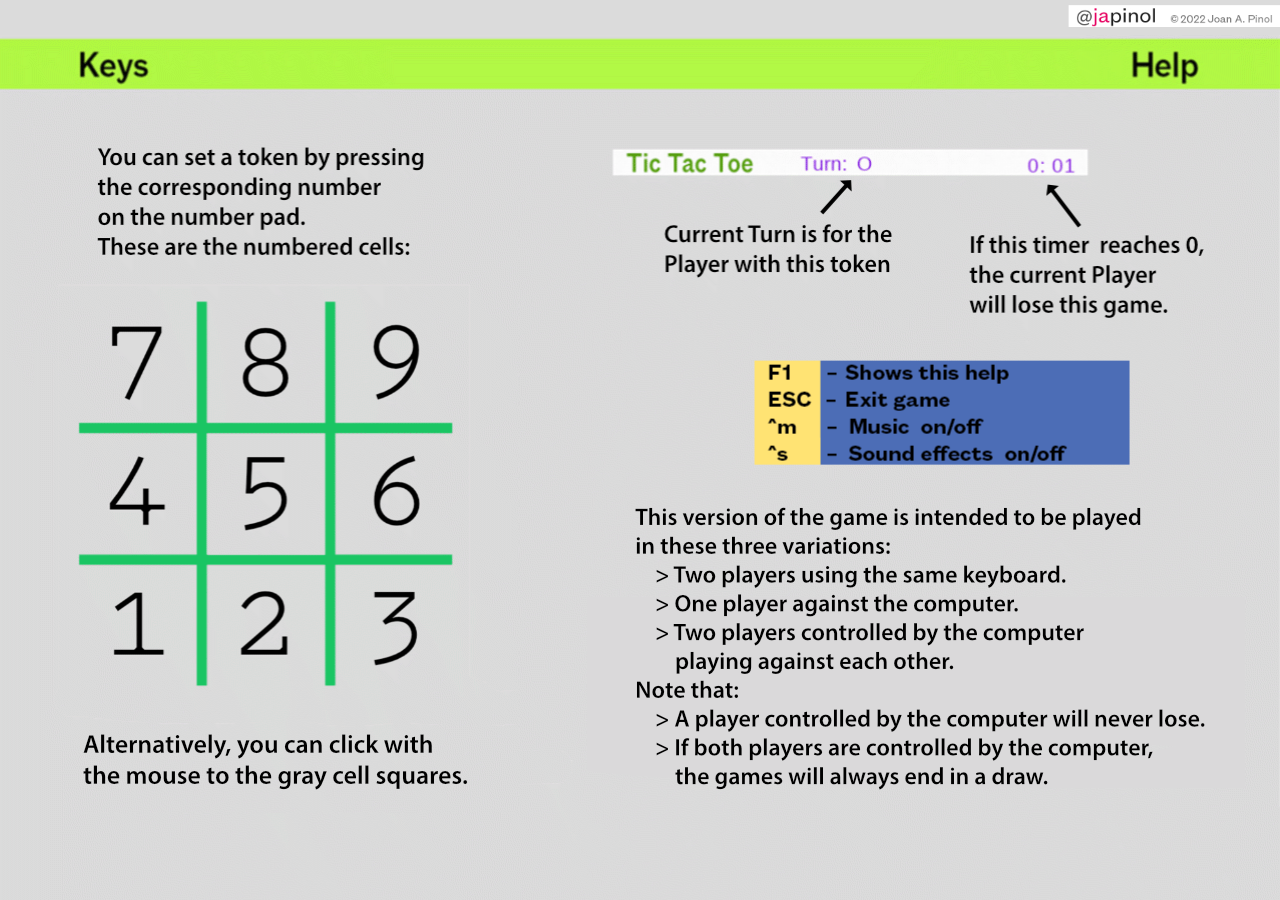
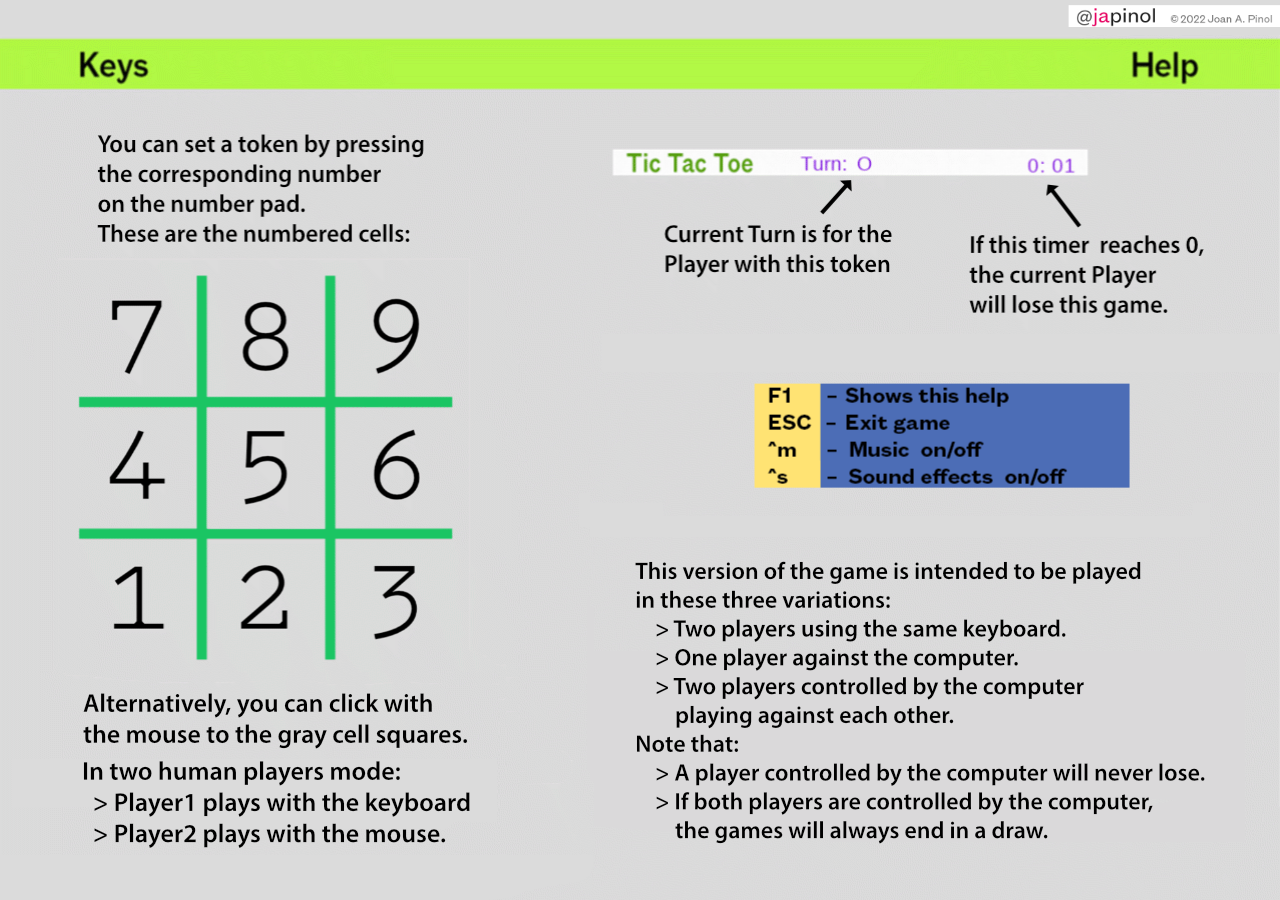
[IMP] Minor documentation improvements.

Changed region(s): [[0.5, 0.3733, 0.9375, 0.9333], [0.0625, 0.1556, 0.375, 0.9333]]

diff --git a/README.md b/README.md
@@ -131,9 +131,11 @@ Computer Controlled Players use a simple version of the Minimax decision rule al
        $ python -m tictactoe --tournaments 1 --games 4 --auto
     > One player against the computer ommitting datetime in the log file.
        $ python -m tictactoe --nologdatetime
+    > One player against the computer, with the computer starting the game an the humar player playint the O tokens.
+       $ python -m tictactoe --player1ai --player2human
     > Two players controlled by the computer playing against each other without waiting between games.
        $ python -m tictactoe --player1ai --auto
-    > Modality Two players using the same keyboard and mouse:
+    > Modality Two human players. Player1 plays with the keyboard, Player2 plays with the mouse.
        $ python -m tictactoe --player2human
 
 
